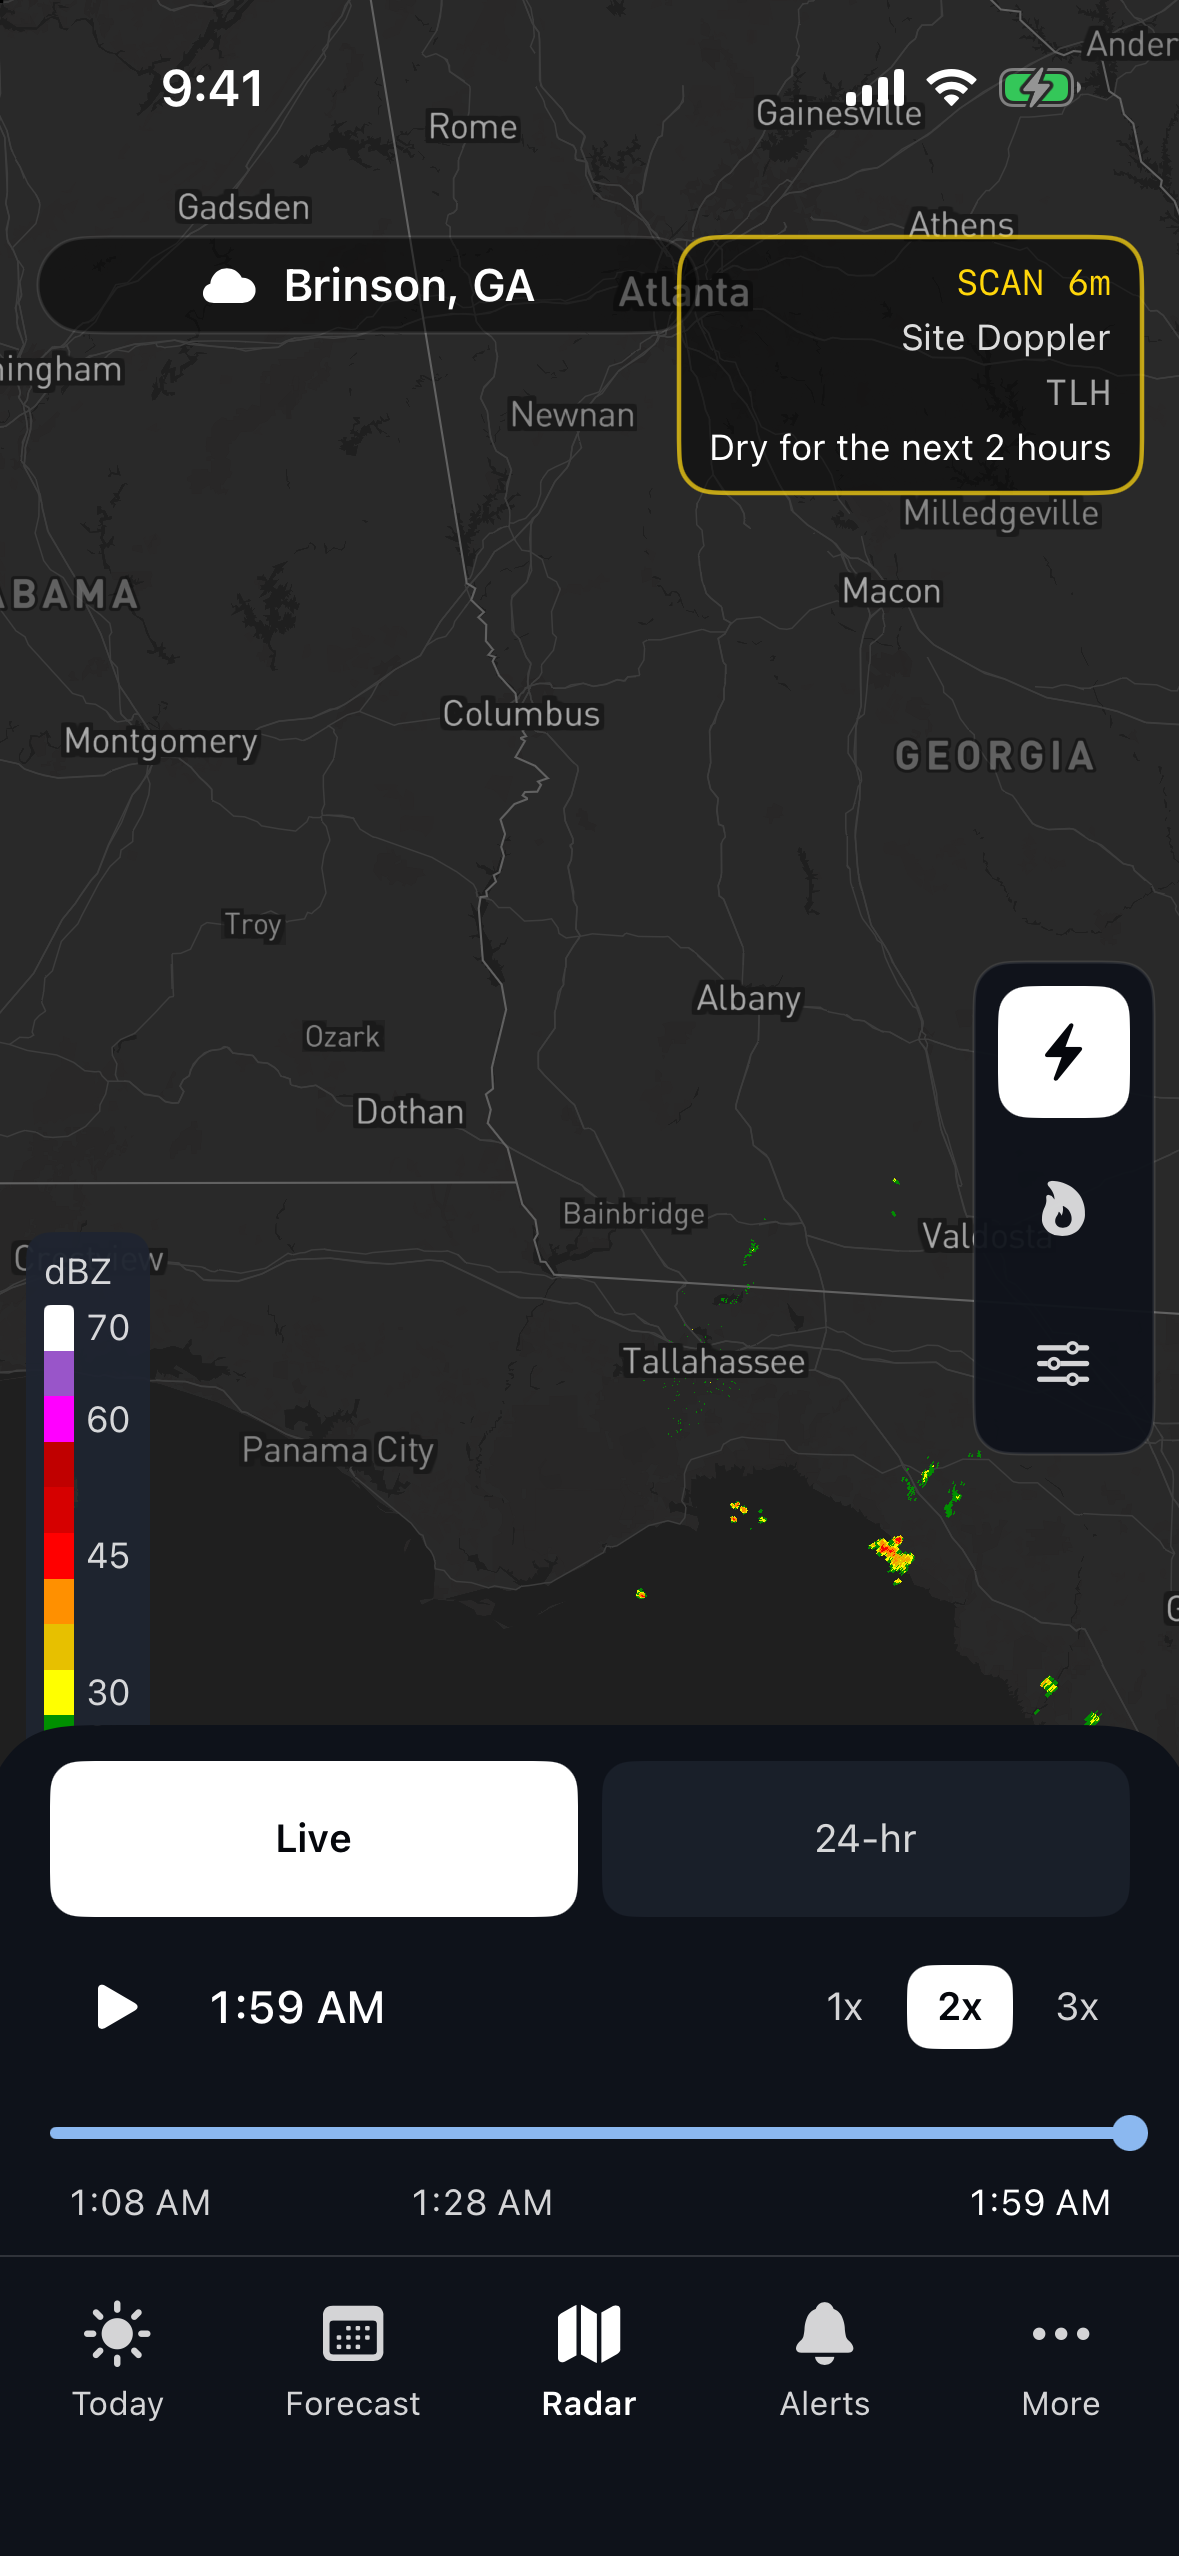
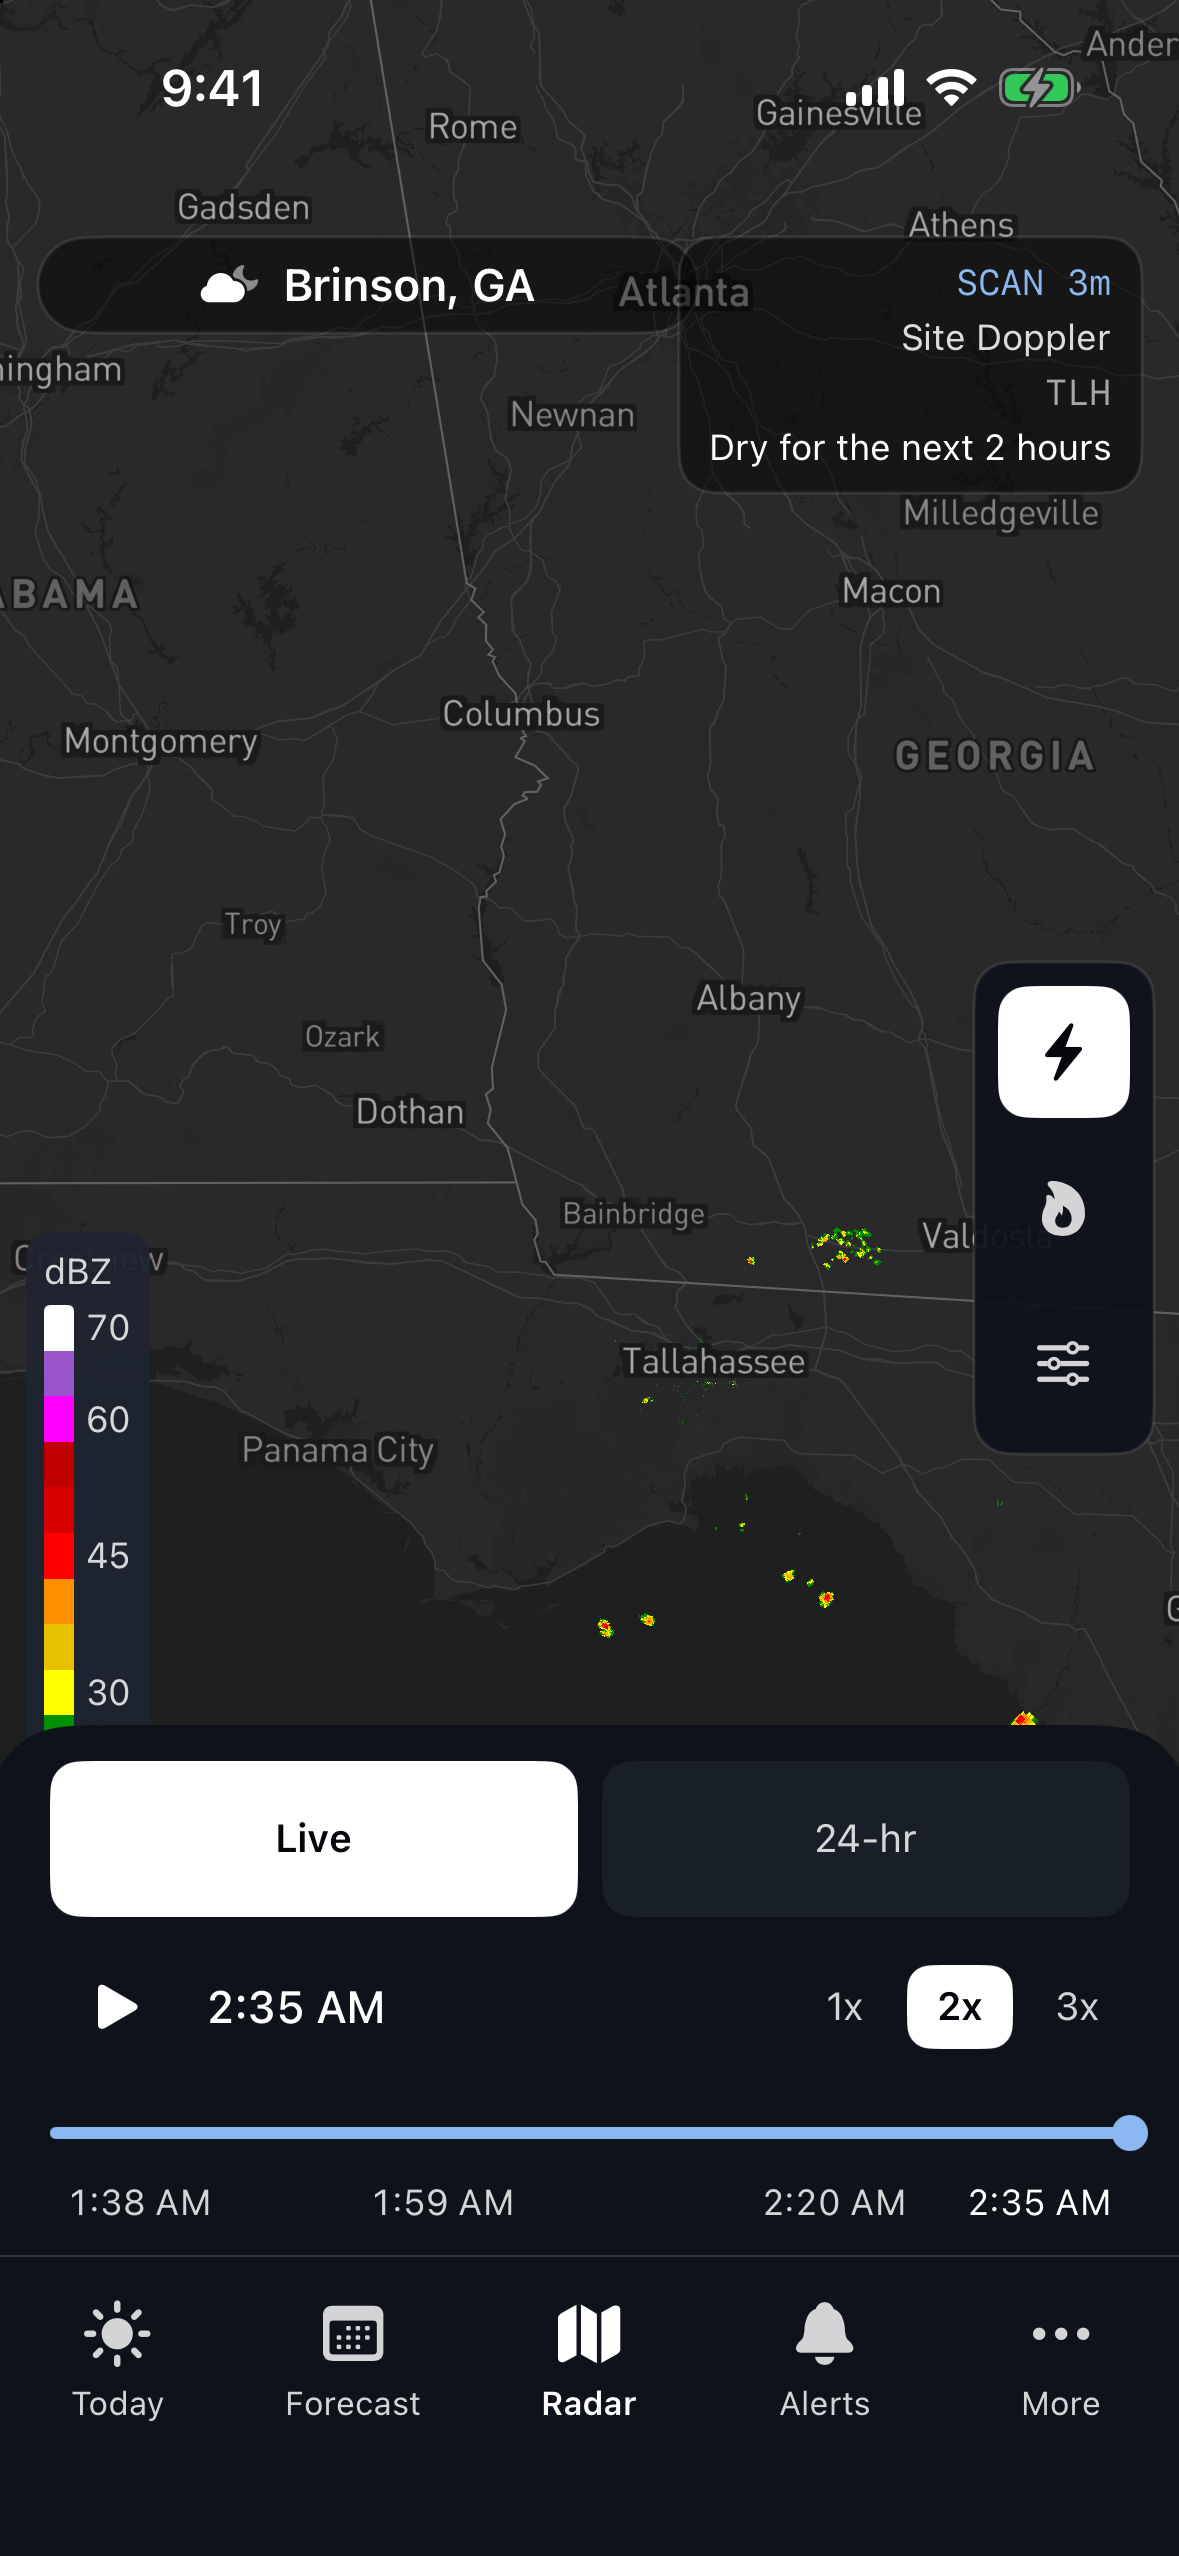
fix(today): wrap-ready Outlook line and 1.0.8 stills

diff --git a/DayCast/Shared/Models/TonightOutlook.swift b/DayCast/Shared/Models/TonightOutlook.swift
@@ -1,12 +1,15 @@
 import Foundation
 
-/// First-viewport “Tonight / This afternoon / This morning” line above the hourly graph.
-/// Template from Open-Meteo hourly + the current AFD/PNS item. No Grok. No outfit tips.
+/// Tonight / afternoon / morning line from Open-Meteo hourly + the current AFD/PNS item.
+/// Forecast keeps the full sentence. The Outlook plate uses `plateSentence` (first clause).
+/// No Grok. No outfit tips.
 enum TonightOutlook {
   struct Result: Equatable {
     let period: Period
     let title: String
     let sentence: String
+    /// One-line Outlook plate. Same sky / wet / warning story as `sentence`, no odds trailer.
+    let plateSentence: String
   }
 
   enum Period: Equatable {
@@ -32,6 +35,8 @@ enum TonightOutlook {
   }
 
   static let maxCharacterCount = 160
+  /// iPhone 16 Outlook header: “Outlook” + one callout line. First clause, not the 160-char trailer.
+  static let plateCharacterCount = 44
 
   static func make(
     weather: DayCastWeather,
@@ -49,7 +54,7 @@ enum TonightOutlook {
     let window = Self.window(
       period: period, now: now, calendar: calendar, sunrise: sunrise, sunset: sunset)
     let hours = Self.hours(in: window, from: weather.hourly, now: now)
-    let raw = sentence(
+    let parts = clauses(
       period: period,
       hours: hours,
       weather: weather,
@@ -61,10 +66,21 @@ enum TonightOutlook {
       isNextHourWet: isNextHourWet,
       officialWarningEvent: officialWarningEvent
     )
+    let rawFull = joinClauses(first: parts.first, second: parts.second)
+    let rawPlate = plateLine(from: parts.first)
+    let fallback = fallbackSentence(period: period, weather: weather, unit: unit)
     let screened =
-      GrokContentFilter.acceptedText(raw, maxCharacterCount: maxCharacterCount)
-      ?? fallbackSentence(period: period, weather: weather, unit: unit)
-    return Result(period: period, title: period.title, sentence: screened)
+      GrokContentFilter.acceptedText(rawFull, maxCharacterCount: maxCharacterCount)
+      ?? fallback
+    let screenedPlate =
+      GrokContentFilter.acceptedText(rawPlate, maxCharacterCount: plateCharacterCount)
+      ?? rawPlate
+    return Result(
+      period: period,
+      title: period.title,
+      sentence: screened,
+      plateSentence: screenedPlate
+    )
   }
 
   // MARK: - Period
@@ -137,6 +153,38 @@ enum TonightOutlook {
     isNextHourWet: Bool = false,
     officialWarningEvent: String? = nil
   ) -> String {
+    let parts = clauses(
+      period: period,
+      hours: hours,
+      weather: weather,
+      briefingItems: briefingItems,
+      unit: unit,
+      now: now,
+      calendar: calendar,
+      isNowWet: isNowWet,
+      isNextHourWet: isNextHourWet,
+      officialWarningEvent: officialWarningEvent
+    )
+    return joinClauses(first: parts.first, second: parts.second)
+  }
+
+  private struct Clauses {
+    let first: String
+    let second: String?
+  }
+
+  private static func clauses(
+    period: Period,
+    hours: [HourlyForecast],
+    weather: DayCastWeather,
+    briefingItems: [LocalBriefingItem],
+    unit: TemperatureUnit,
+    now: Date,
+    calendar: Calendar,
+    isNowWet: Bool,
+    isNextHourWet: Bool,
+    officialWarningEvent: String?
+  ) -> Clauses {
     let sky = skyPhrase(
       period: period,
       hours: hours,
@@ -167,12 +215,28 @@ enum TonightOutlook {
     } else if let later {
       second = later
     }
+    return Clauses(first: first, second: second)
+  }
 
+  private static func joinClauses(first: String, second: String?) -> String {
     if let second, !second.isEmpty {
       let clause = second.hasSuffix(".") ? second : second + "."
       return cap("\(first) \(clause)")
     }
     return cap(first)
+  }
+
+  /// First clause only. Drop the temp tail or “in effect” if the warning name is long.
+  static func plateLine(from firstClause: String) -> String {
+    let ended = firstClause.hasSuffix(".") ? firstClause : firstClause + "."
+    if ended.count <= plateCharacterCount { return cap(ended) }
+    var candidate = ended
+    if let comma = ended.firstIndex(of: ",") {
+      let sky = String(ended[..<comma])
+      candidate = sky.hasSuffix(".") ? sky : sky + "."
+      if candidate.count <= plateCharacterCount { return cap(candidate) }
+    }
+    return cap(candidate.replacingOccurrences(of: " in effect ", with: " "))
   }
 
   // MARK: - Sky / temp / precip

diff --git a/DayCastTests/TonightOutlookTests.swift b/DayCastTests/TonightOutlookTests.swift
@@ -88,6 +88,9 @@ final class TonightOutlookTests: XCTestCase {
       result.sentence,
       "Clear tonight, cooling to 73°. Isolated storms wait until Tuesday morning."
     )
+    XCTAssertEqual(result.plateSentence, "Clear tonight, cooling to 73°.")
+    XCTAssertLessThanOrEqual(result.plateSentence.count, TonightOutlook.plateCharacterCount)
+    XCTAssertFalse(result.plateSentence.contains("Tuesday"))
     XCTAssertFalse(result.sentence.localizedCaseInsensitiveContains("jacket"))
     XCTAssertFalse(result.sentence.localizedCaseInsensitiveContains("dress"))
     XCTAssertFalse(result.sentence.localizedCaseInsensitiveContains("tornado"))
@@ -139,6 +142,9 @@ final class TonightOutlookTests: XCTestCase {
     XCTAssertFalse(result.sentence.localizedCaseInsensitiveContains("quiet"))
     XCTAssertFalse(result.sentence.localizedCaseInsensitiveContains("clear tonight"))
     XCTAssertTrue(result.sentence.contains("Flash Flood Warning"))
+    XCTAssertTrue(result.plateSentence.contains("Flash Flood Warning"))
+    XCTAssertFalse(result.plateSentence.localizedCaseInsensitiveContains("clear tonight"))
+    XCTAssertLessThanOrEqual(result.plateSentence.count, TonightOutlook.plateCharacterCount)
   }
 
   func testNextHourWetDoesNotSayQuietTonight() {
@@ -166,6 +172,27 @@ final class TonightOutlookTests: XCTestCase {
     XCTAssertTrue(result.sentence.lowercased().contains("rain"))
     XCTAssertTrue(result.sentence.contains("60%"))
     XCTAssertFalse(result.sentence.localizedCaseInsensitiveContains("tornado"))
+    XCTAssertEqual(result.plateSentence, "Rain overnight, cooling to 73°.")
+    XCTAssertFalse(result.plateSentence.contains("%"))
+    XCTAssertLessThanOrEqual(result.plateSentence.count, TonightOutlook.plateCharacterCount)
+  }
+
+  func testPlateLineDropsTempWhenTheWarningNameIsLong() {
+    XCTAssertEqual(
+      TonightOutlook.plateLine(from: "Rain overnight, cooling to 73°."),
+      "Rain overnight, cooling to 73°."
+    )
+    XCTAssertEqual(
+      TonightOutlook.plateLine(
+        from: "Severe Thunderstorm Warning in effect tonight, cooling to 73°."),
+      "Severe Thunderstorm Warning tonight."
+    )
+    XCTAssertLessThanOrEqual(
+      TonightOutlook.plateLine(
+        from: "Severe Thunderstorm Warning in effect tonight, cooling to 73°."
+      ).count,
+      TonightOutlook.plateCharacterCount
+    )
   }
 
   func testThisAfternoonStaysSunnyWithoutRepeatingTonight() {

diff --git a/DayCast/Features/Today/Feed/Cards/RadarFeedCard.swift b/DayCast/Features/Today/Feed/Cards/RadarFeedCard.swift
@@ -221,7 +221,7 @@ struct RadarFeedCard: View {
       Text(OutlookRadarCopy.title)
         .font(DesignTokens.Typography.subsection())
         .foregroundStyle(DesignTokens.Palette.textPrimary)
-      Text(outlook.sentence)
+      Text(outlook.plateSentence)
         .font(DesignTokens.Typography.callout())
         .foregroundStyle(DesignTokens.Palette.textSecondary)
         .lineLimit(1)
@@ -229,7 +229,7 @@ struct RadarFeedCard: View {
     }
     .frame(maxWidth: .infinity, minHeight: TodayGlanceLayout.radarHeaderHeight, alignment: .leading)
     .accessibilityElement(children: .ignore)
-    .accessibilityLabel("\(OutlookRadarCopy.title). \(outlook.sentence)")
+    .accessibilityLabel("\(OutlookRadarCopy.title). \(outlook.plateSentence)")
   }
 
   private var plate: some View {

diff --git a/DayCastTests/TodayFirstViewportTests.swift b/DayCastTests/TodayFirstViewportTests.swift
@@ -43,6 +43,8 @@ final class TodayFirstViewportTests: XCTestCase {
       OutlookRadarProduct.resolved(requested: .radar, futureFramesAvailable: true),
       .radar
     )
+    XCTAssertEqual(TonightOutlook.plateCharacterCount, 44)
+    XCTAssertLessThan(TonightOutlook.plateCharacterCount, TonightOutlook.maxCharacterCount)
     let spoken = OutlookRadarCopy.accessibilityLabel(
       sentence: "Thunderstorms possible after 2 AM.",
       product: .radar

diff --git a/.grok/skills/daycast/SKILL.md b/.grok/skills/daycast/SKILL.md
@@ -174,7 +174,7 @@ After the feature is complete and working, update this `daycast` skill with any 
 - **Alerts honesty: Outlook ≠ Warning (Aug 2026)**: Lone SPC Day 1 / MD / LSR is not a warning count. `AlertsHonesty` owns header/tab/a11y copy. Outlook-only title is **Severe Outlook** (not bare Outlook, not a warning list). Caption leads with the Day 1 summary (`Day 1 Slight · …` / `Day 1 Thunderstorm`) then a quiet **No active NWS alerts**. Constant `activeNow` stays `"ACTIVE NOW"` — the Alerts **view** draws **Active Now** (title-case, no bolt). `bell.badge.fill` only when NWS count > 0; otherwise `bell.fill`. VoiceOver never says “1 active alert” for outlook-only (may say Severe Outlook + risk line). Today slot stays **Severe outlook**; inner card heading is **Severe Outlook**. Tests: `AlertsHonestyTests` — do not mutate the constants. Scratch: `scratch/weather-ia-competitive-2026-08-23/alerts-outlook-honesty/` then `…/alerts-outlook-stronger/`.
 - **Alerts Your News / local briefing (Aug 2026)**: Rail is NewsData.io weather from **that city's US local stations** first (photos via `image_url`), then NWS AFD KEY MESSAGES + filtered PNS fill remaining of max 3. NewsData key is gitignored `DeveloperAPIKey.newsData`. `USLocalNewsMarkets` is a nationwide DMA table; Olive Branch → Memphis (`fox13memphis`, `actionnews5`, `wreg`). `GET newsdata.io/api/1/latest` `country=us` `language=en` `domain=` those source IDs `q=weather OR storm OR tornado OR flood` (max 5 domains on free). 422 invalid domains drop and retry. Local-station hits do not need the city in the headline; sports/crime still drop via weather tokens. Unmapped US city falls back to a city keyword query. Nil/fail/no-local-hits → NWS only. Free plan is ~12h delayed. NWS path unchanged: `/points` → `cwa` (Olive Branch → MEG); AFD >18h / PNS >48h / NWR-admin PNS drop; tap → publisher or weather.gov in Safari. `LocalBriefingStore` (~20 min cache per location id, generation token). **NEARBY STORM REPORTS** off by default; Settings → Storm reports for spotters; keep LSR fetch for Grok. `AlertsHonesty` unchanged — news is not a warning count. **UI bar:** AccuWeather-style **Your News** horizontal rail — headline + `{relative} · {source}`. No `newspaper` meta glyph (PR 7). Photo **only** from a real `https` `imageURL` (NewsData `image_url`, or an image URL inside NWS product text). Never keyword-match bundled `NewsHero*` stock, never Imagine stills, never default `.sky`. NWS assemble still emits up to 3 KEY MESSAGE bullets (`afd-{id}-km{i}`) then PNS; `mergingNews` puts news first and dedupes titles. Tests: `NewsDataParserTests.swift`, `LocalBriefingParserTests.swift`. Scratch: `scratch/alerts-local-news-2026-08-23/implement/`, `…/dense/`, `…/hero-match/`, `…/source-image/`.
 - **Today Your News rail (Aug 2026)**: Home for the rail is Today (`FeedItem.yourNews` after the radar teaser). Same `LocalBriefingStore` / parser / cards / max 3 — no second fetch. Hide when items empty or location id mismatch. Publisher news (`productCode NEWS`) keeps its own title; NWS still uses `YourNewsHeadline` punch-up of the office `title` (no Grok, no 4.7 surface). Office line stays `title` for Sky Check + VoiceOver. Tests: `YourNewsHeadlineTests`, `FeedAssemblerTests`, `NewsDataParserTests`. Scratch: `scratch/today-your-news-rail-2026-08-24/`.
-- **Today Outlook radar plate (Aug 2026)**: `RadarFeedCard` is Outlook + the one `TonightOutlook` sentence on a 168pt Dark map (`outlookPlateHeight`), not the 72pt stamp. Radar | Future pills overlay the map. Radar paint is existing `RadarPreviewPaint` (Site Doppler when hoisted+sweep, else National). Future uses MapsGL 12-hour timeline + `RadarLoader.probeForecastFramesAvailable`; missing frames keep Radar selected — no dead Future, no Intensity. Small LIVE stamp on Radar only. Tap map (not pills) opens Radar tab (`pendingRadarShowsFuture`). Curve stays on Hourly (no duplicate sentence). Dark basemap unchanged. Tests: `TodayFirstViewportTests`. Scratch: `scratch/review-149/NOTES-outlook-glance.md`.
+- **Today Outlook radar plate (Aug 2026)**: `RadarFeedCard` is Outlook + `TonightOutlook.plateSentence` (first clause, `plateCharacterCount` 44) on a 168pt Dark map (`outlookPlateHeight`), not the 72pt stamp. Forecast keeps the full `sentence`. Radar | Future pills overlay the map. Radar paint is existing `RadarPreviewPaint` (Site Doppler when hoisted+sweep, else National). Future uses MapsGL 12-hour timeline + `RadarLoader.probeForecastFramesAvailable`; missing frames keep Radar selected — no dead Future, no Intensity. Small LIVE stamp on Radar only. Tap map (not pills) opens Radar tab (`pendingRadarShowsFuture`). Curve stays on Hourly (no duplicate sentence). Dark basemap unchanged. Tests: `TonightOutlookTests`, `TodayFirstViewportTests`. Scratch: `scratch/review-149/NOTES-wrap-polish.md`.
 - **Today first viewport (Aug 2026, hoist 149 + one chip)**: iPhone 16 first screen is Now → **one** live official NWS chip → Temperature curve → Outlook radar plate → Your News peek (≥8pt; header peek is the floor). No `SevereContextCard` on Today. `FeedItem.defaultOrder` is `.now, .alerts, .hourly, .radar, .yourNews, .health, .daily, .nearby`. Glance math is one `alertChipMinHeight` 56. Radar stays on Today whenever the teaser can paint. Duplicate NWS UGCs collapse via `NWSAlertGrouping`. `TonightOutlook` appears once, on Outlook — never Quiet/Clear when Now is wet, next-hour rain is wet, or a live official warning exists. Tests: `FeedAssemblerTests`, `TodayFirstViewportTests`, `TonightOutlookTests`. Scratch: `scratch/review-149/NOTES-outlook-glance.md`.
 - **WeatherStage (Aug 2026)**: One bundled cinematic still (`NowHeroPhotography`) is the full-bleed **stage** for Today, Forecast, Alerts, More, Locations, Sky Check (`WeatherBackgroundLayer` → `WeatherStage`). Now is **type on that stage** (`nowBudgetHeight` 160) — not a second photo card. Chip bar is translucent (`black 0.22`); Today/Forecast/Alerts/More use `weatherShowsThroughNavigationBar`. Radar’s stage is the map. Warning rows shout ALL CAPS + stronger wash. Your News still uses real `imageURL` only. Tests: `NowHeroPhotographyTests` (`stageSize`), `TodayFirstViewportTests`. Do not scrape TWC. Radar paint / paywall untouched.
 - **Weather modules (Aug 2026)**: Next hour, Hourly, Daily, Radar teaser, Nearby, Take, Your News, Forecast 48h/10-Day, Alerts rows use `weatherModuleStyle()` — `ultraThinMaterial` on the stage, not opaque `#1E2430` `cardStyle` stickers. Next hour has no nested plate / sun-glyph hero. Settings / Paywall keep solid `cardStyle`. Tests: `AccessibilityChromeTests.testWeatherModulesUseMaterialOnTheStage`.

diff --git a/docs/App-Review-Notes.md b/docs/App-Review-Notes.md
@@ -39,8 +39,8 @@ tap **Restore Purchases** in Settings and retry.
 ## Suggested path
 
 1. Allow location when prompted (or use the default location).
-2. **Today** — conditions, DayCast Score, Minutecast.
-3. **Radar** — interactive map with animation.
+2. **Today** — now, one official NWS chip when you’re warned, the temperature curve, Outlook on live radar (Site Doppler / National), Your News.
+3. **Radar** — Live Site Doppler on Dark, National when local is clear.
 4. **Alerts** — live NWS watches and warnings.
 5. **AI** — after the sandbox purchase above, try a quick prompt; should stream a reply.
    Optional: Shortcuts → “Ask Grok” with a question (opens the AI tab and submits).
